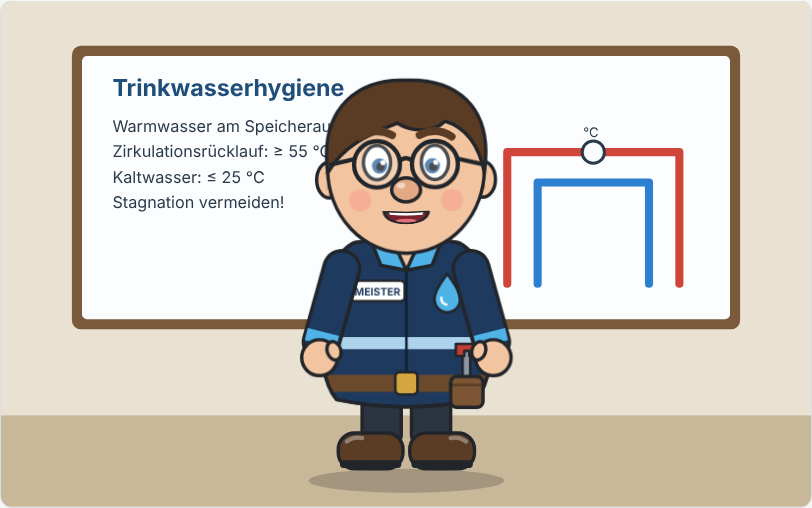
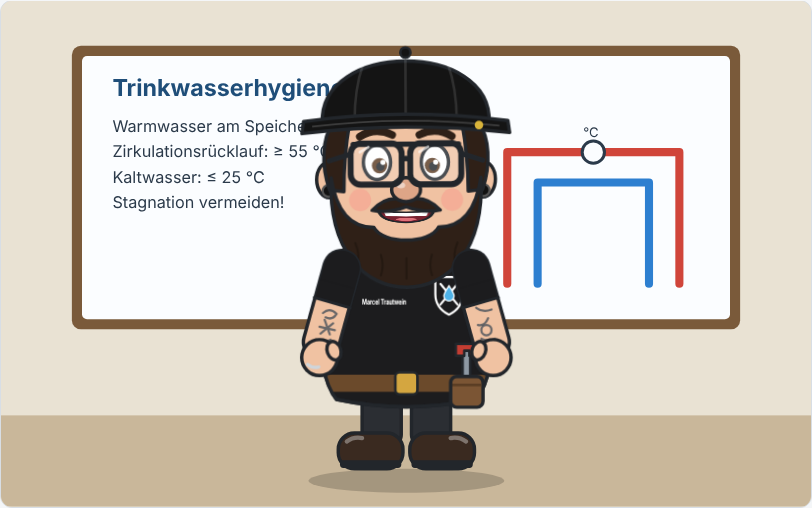
Figur an Marcel angepasst: Cap, Brille, Vollbart, T-Shirt, Tattoos
- Snapback-Cap mit geradem Schirm, kräftige Brille mit Doppelsteg
- dunkler Vollbart mit Schnurrbart, Ohr-Tunnel, breiteres Lachen
- Outfit T-Shirt mit Namensaufdruck und Wappen, kurze Ärmel mit Tattoos
- Arbeitsjacke und Schutzhelm bleiben als Alternative wählbar
- Rot als Akzentfarbe, Vorschaubilder neu erzeugt

Claude-Session: https://claude.ai/code/session_01LH1Di16cBXyLvn2UrpciNj

Changed region(s): [[0.3695, 0.0886, 0.6466, 0.7382], [0.4002, 0.8563, 0.585, 0.9154], [0.4002, 0.7677, 0.5542, 0.7972]]

diff --git a/figur/lehrer-figur.html b/figur/lehrer-figur.html
@@ -42,7 +42,7 @@
 </head>
 <body>
 <header>
-  <h1>Wasser-Meister – Lehrer-Figur für Erklärvideos</h1>
+  <h1>Wasser-Meister Marcel – Lehrer-Figur für Erklärvideos</h1>
   <p>Trinkwasserhygiene &amp; Installation · Pose wählen, Aussehen anpassen, als PNG / SVG / Video exportieren.</p>
 </header>
 
@@ -72,8 +72,8 @@
     </svg>
 
     <!-- ================= DIE FIGUR ================= -->
-    <svg id="figur" xmlns="http://www.w3.org/2000/svg" viewBox="-80 0 560 570" class="mode-idle talking"
-         style="--skin:#f2c4a0; --skin-shade:#e3a985; --hair:#5a3b24; --eye:#3b6ea5; --jacket:#1f3a5f; --accent:#4fb3e8; --pants:#2c3440; --boots:#5b3d26; --line:#22262b; --belly:1;">
+    <svg id="figur" xmlns="http://www.w3.org/2000/svg" viewBox="-80 0 560 570" class="mode-idle talking outfit-tee"
+         style="--skin:#f0c2a2; --skin-shade:#dda587; --hair:#2f2017; --eye:#5a3a22; --jacket:#1c1c1e; --accent:#d7141a; --cap:#141414; --pants:#2b2e33; --boots:#3a2a20; --line:#22262b; --belly:1;">
       <style>
         #figur .ol { stroke: var(--line); stroke-width: 4; stroke-linejoin: round; stroke-linecap: round; }
         #figur .skin { fill: var(--skin); }
@@ -107,6 +107,11 @@
         #figur #eyes   { transform-origin: 200px 172px; }
         #figur #brows  { transform-origin: 200px 140px; }
         #figur #torsoScale { transform-origin: 200px 360px; transform: scaleX(var(--belly)); }
+        #figur.outfit-tee .jacket-only, #figur.outfit-jacket .tee-only { display: none; }
+        #figur .arm-skin { stroke: var(--skin); stroke-width: 38; stroke-linecap: round; }
+        #figur .sleeve { stroke: var(--jacket); stroke-width: 42; }
+        #figur .tattoo { fill: none; stroke: #3d4a55; stroke-opacity: .75; stroke-width: 2.6; stroke-linecap: round; stroke-linejoin: round; }
+        #figur .cap { fill: var(--cap); }
         #figur #pointer { display: none; }
         #figur.pointer-on #pointer, #figur.mode-point #pointer { display: inline; }
 
@@ -172,7 +177,7 @@
         @keyframes jump {
           0%, 100% { transform: translateY(0) scale(1.06, .92); }
           15% { transform: translateY(0) scale(.95, 1.06); }
-          50% { transform: translateY(-70px) scale(1, 1); }
+          50% { transform: translateY(-50px) scale(1, 1); }
           85% { transform: translateY(0) scale(1.05, .94); }
         }
         @keyframes shadowJump { 0%, 100% { transform: scale(1); opacity: 1; } 50% { transform: scale(.6); opacity: .5; } }
@@ -209,23 +214,39 @@
             <path class="jacket ol" d="M138,262 C92,285 88,410 118,445 Q200,462 282,445 C312,410 308,285 262,262 Q200,250 138,262 Z"/>
             <g clip-path="url(#torsoClip)">
               <path d="M270,270 C300,320 300,420 270,452 L320,452 L320,270 Z" fill="#000" fill-opacity=".14"/>
-              <rect x="80" y="372" width="240" height="14" fill="#dfe7ee"/>
-              <rect x="80" y="372" width="240" height="14" class="accent" fill-opacity=".35"/>
+              <g class="jacket-only">
+                <rect x="80" y="372" width="240" height="14" fill="#dfe7ee"/>
+                <rect x="80" y="372" width="240" height="14" class="accent" fill-opacity=".35"/>
+              </g>
               <rect x="80" y="416" width="240" height="20" fill="#6b4a2b"/>
             </g>
             <path d="M138,262 C92,285 88,410 118,445 Q200,462 282,445 C312,410 308,285 262,262 Q200,250 138,262 Z" fill="none" class="ol"/>
-            <line x1="200" y1="294" x2="200" y2="414" stroke="#0f1f33" stroke-width="3"/>
+            <line class="jacket-only" x1="200" y1="294" x2="200" y2="414" stroke="#0f1f33" stroke-width="3"/>
             <rect x="187" y="413" width="26" height="26" rx="5" fill="#d4a640" class="ol" style="stroke-width:3"/>
+<g class="jacket-only">
             <!-- Kragen -->
             <path class="skin ol" d="M176,258 L200,294 L224,258 Z"/>
             <path class="accent ol" d="M158,258 L182,255 L200,294 L170,288 Z"/>
             <path class="accent ol" d="M242,258 L218,255 L200,294 L230,288 Z"/>
             <!-- Namensschild -->
             <rect x="134" y="306" width="64" height="24" rx="5" class="white ol" style="stroke-width:3"/>
-            <text id="nameText" x="166" y="323" text-anchor="middle" font-family="system-ui, Arial, sans-serif" font-size="12.5" font-weight="700" fill="#1f3a5f" textLength="54" lengthAdjust="spacingAndGlyphs">MEISTER</text>
+            <text id="nameText" x="166" y="323" text-anchor="middle" font-family="system-ui, Arial, sans-serif" font-size="12.5" font-weight="700" fill="#1f3a5f" textLength="54" lengthAdjust="spacingAndGlyphs">MARCEL</text>
             <!-- Wassertropfen-Abzeichen -->
-            <path class="accent ol" style="stroke-width:3" d="M248,298 C258,312 263,320 263,328 A15,15 0 0 1 233,328 C233,320 238,312 248,298 Z"/>
+            <path class="ol" fill="#4fb3e8" style="stroke-width:3" d="M248,298 C258,312 263,320 263,328 A15,15 0 0 1 233,328 C233,320 238,312 248,298 Z"/>
             <path d="M241,326 A7,7 0 0 0 247,334" fill="none" stroke="#fff" stroke-width="3" stroke-linecap="round"/>
+</g>
+            <!-- T-Shirt: Rundhals, Namensaufdruck, Wappen -->
+            <g class="tee-only">
+              <path class="skin" d="M166,256 Q200,292 234,256 Z"/>
+              <path d="M164,257 Q200,296 236,257" fill="none" stroke="#3a3a3d" stroke-width="7" stroke-linecap="round"/>
+              <path d="M164,257 Q200,296 236,257" fill="none" class="ol" style="stroke-width:3"/>
+              <text id="namePrint" x="174" y="334" text-anchor="middle" font-family="system-ui, Arial, sans-serif" font-size="9" font-weight="700" fill="#ffffff" textLength="52" lengthAdjust="spacingAndGlyphs">Marcel Trautwein</text>
+              <g fill="none" stroke="#ffffff" stroke-width="2.5" stroke-linecap="round" stroke-linejoin="round">
+                <path d="M234,302 H266 V322 Q266,338 250,346 Q234,338 234,322 Z"/>
+                <path d="M240,334 L260,310 M240,310 L260,334"/>
+              </g>
+              <path d="M250,312 C254,318 256,321 256,324 A6,6 0 0 1 244,324 C244,321 246,318 250,312 Z" fill="#4fb3e8" stroke="#fff" stroke-width="1.5"/>
+            </g>
             <!-- Werkzeugtasche mit Rohrzange -->
             <g id="pouch">
               <rect x="266" y="388" width="9" height="40" rx="3" fill="#8e99a4" class="ol" style="stroke-width:3"/>
@@ -241,6 +262,10 @@
             <ellipse class="skin ol" cx="290" cy="188" rx="15" ry="21"/>
             <path d="M106,180 Q114,188 108,198" fill="none" stroke="var(--skin-shade)" stroke-width="4" stroke-linecap="round"/>
             <path d="M294,180 Q286,188 292,198" fill="none" stroke="var(--skin-shade)" stroke-width="4" stroke-linecap="round"/>
+            <g id="tunnels">
+              <circle cx="109" cy="201" r="7" fill="#111" stroke="#555" stroke-width="2.5"/>
+              <circle cx="291" cy="201" r="7" fill="#111" stroke="#555" stroke-width="2.5"/>
+            </g>
             <ellipse class="skin ol" cx="200" cy="176" rx="92" ry="98"/>
 
             <!-- Haare: kurz -->
@@ -252,11 +277,17 @@
               <path class="hair ol" d="M110,192 C102,158 112,132 134,120 C128,142 126,166 126,194 Z"/>
               <path class="hair ol" d="M290,192 C298,158 288,132 266,120 C272,142 274,166 274,194 Z"/>
             </g>
+            <!-- Haare: kurze Seiten (passt unter die Cap) -->
+            <g id="hairSides" style="display:none">
+              <path class="hair ol" d="M110,200 C100,170 102,140 114,122 L134,122 C129,150 127,176 127,202 Z"/>
+              <path class="hair ol" d="M290,200 C300,170 298,140 286,122 L266,122 C271,150 273,176 273,202 Z"/>
+            </g>
             <!-- Haare: Locken (per Skript gefüllt) -->
             <g id="hairCurly" style="display:none"></g>
 
             <!-- Bart -->
-            <path id="beardFull" class="hair ol" style="display:none" d="M112,196 C114,262 160,288 200,288 C240,288 286,262 288,196 C278,232 258,246 236,244 C226,262 174,262 164,244 C142,246 122,232 112,196 Z"/>
+            <path id="beardFull" class="hair ol" style="display:none" d="M112,186 C108,272 152,314 200,314 C248,314 292,272 288,186 C282,226 264,244 238,244 C228,264 172,264 162,244 C136,244 118,226 112,186 Z"/>
+            <g id="beardStrands" style="display:none" fill="none" stroke="#000" stroke-opacity=".22" stroke-width="2.5" stroke-linecap="round"><path d="M140,262 q6,14 2,26 M170,276 q4,12 0,24 M200,280 v24 M230,276 q-4,12 0,24 M260,262 q-6,14 -2,26"/></g>
             <path id="beardStubble" class="hair" style="display:none" fill-opacity=".28" d="M112,196 C114,262 160,282 200,282 C240,282 286,262 288,196 C278,232 258,246 236,244 C226,262 174,262 164,244 C142,246 122,232 112,196 Z"/>
             <path id="beardShort" class="hair ol" style="display:none" d="M164,248 C170,272 186,284 200,284 C214,284 230,272 236,248 C224,262 176,262 164,248 Z"/>
 
@@ -266,11 +297,11 @@
 
             <!-- Mund -->
             <g id="mouth">
-              <path class="ol" fill="#7a2230" d="M174,222 Q200,226 226,222 Q224,252 200,254 Q176,252 174,222 Z"/>
-              <path fill="#fff" d="M180,224 Q200,228 220,224 L219,231 Q200,234 181,231 Z"/>
+              <path class="ol" fill="#7a2230" d="M168,220 Q200,227 232,220 Q229,254 200,256 Q171,254 168,220 Z"/>
+              <path fill="#fff" d="M174,223 Q200,229 226,223 L224,235 Q200,239 176,235 Z"/>
               <ellipse cx="200" cy="246" rx="12" ry="5" fill="#e0707a"/>
             </g>
-            <path id="mustache" class="hair ol" style="display:none" d="M166,224 Q182,206 200,216 Q218,206 234,224 Q218,230 200,222 Q182,230 166,224 Z"/>
+            <path id="mustache" class="hair ol" style="display:none" d="M160,224 Q180,204 200,214 Q220,204 240,224 Q220,228 200,220 Q180,228 160,224 Z"/>
 
             <!-- Nase -->
             <ellipse class="skin-shade ol" cx="200" cy="200" rx="17" ry="14"/>
@@ -308,32 +339,78 @@
               <path d="M138,160 L112,168 M262,160 L288,168" stroke="var(--line)" stroke-width="5" stroke-linecap="round"/>
             </g>
 
+            <g id="glassesBold" style="display:none">
+              <rect class="glasses" style="stroke-width:7" x="135" y="146" width="60" height="48" rx="12"/>
+              <rect class="glasses" style="stroke-width:7" x="205" y="146" width="60" height="48" rx="12"/>
+              <path d="M138,147 H262" stroke="var(--line)" stroke-width="6" stroke-linecap="round"/>
+              <path d="M195,166 Q200,161 205,166" fill="none" stroke="var(--line)" stroke-width="6"/>
+              <path d="M135,158 L110,166 M265,158 L290,166" stroke="var(--line)" stroke-width="6" stroke-linecap="round"/>
+              <path d="M146,156 l10,-6 M216,156 l10,-6" stroke="#fff" stroke-opacity=".6" stroke-width="3" stroke-linecap="round"/>
+            </g>
+
+            <!-- Snapback-Cap (gerader Schirm) -->
+            <g id="cap" style="display:none">
+              <path class="cap ol" d="M102,122 C98,26 302,26 298,122 Z"/>
+              <path d="M200,40 V120 M150,54 Q140,82 140,120 M250,54 Q260,82 260,120" fill="none" stroke="#fff" stroke-opacity=".12" stroke-width="3"/>
+              <circle class="cap ol" cx="200" cy="40" r="6" style="stroke-width:3"/>
+              <path class="cap ol" d="M80,120 Q200,104 320,120 L322,134 Q200,120 78,134 Z"/>
+              <path d="M90,126 Q200,113 310,126" fill="none" stroke="#fff" stroke-opacity=".18" stroke-width="2"/>
+              <circle cx="286" cy="125" r="5" fill="#d9b43a"/>
+            </g>
+
             <!-- Schutzhelm -->
             <g id="helmet" style="display:none">
               <path class="white ol" d="M98,152 C98,40 302,40 302,152 Z"/>
               <path d="M200,70 V150" stroke="#e3e8ec" stroke-width="16"/>
               <path class="white ol" d="M82,154 Q200,134 318,154 Q322,166 306,166 Q200,150 94,166 Q78,166 82,154 Z"/>
-              <path class="accent ol" style="stroke-width:3" d="M200,90 C210,104 215,112 215,120 A15,15 0 0 1 185,120 C185,112 190,104 200,90 Z"/>
+              <path class="ol" fill="#4fb3e8" style="stroke-width:3" d="M200,90 C210,104 215,112 215,120 A15,15 0 0 1 185,120 C185,112 190,104 200,90 Z"/>
             </g>
           </g>
           <!-- Linker Arm (vom Betrachter aus) -->
           <g id="armL">
             <line class="arm-ol" x1="124" y1="292" x2="100" y2="378"/>
-            <line class="arm-fill" x1="124" y1="292" x2="100" y2="378"/>
-            <line class="cuff" x1="102.5" y1="366" x2="99" y2="380"/>
+            <g class="jacket-only">
+              <line class="arm-fill" x1="124" y1="292" x2="100" y2="378"/>
+              <line class="cuff" x1="102.5" y1="366" x2="99" y2="380"/>
+            </g>
+            <g class="tee-only">
+              <line class="arm-skin" x1="124" y1="292" x2="100" y2="378"/>
+              <g class="tattoos"><g class="tattoo">
+                <path d="M102,344 q8,-7 16,1 q-5,8 -13,4"/>
+                <path d="M98,360 l18,4 M104,352 l6,17 M99,368 l15,-12"/>
+                <path d="M94,375 q9,5 17,0"/>
+              </g></g>
+              <line class="sleeve" stroke-linecap="round" x1="124" y1="292" x2="119" y2="310"/>
+              <line class="sleeve" stroke-linecap="butt" x1="119" y1="310" x2="113" y2="332"/>
+              <line x1="92" y1="326" x2="134" y2="338" stroke="var(--line)" stroke-width="3.5" stroke-linecap="round"/>
+            </g>
             <circle class="skin ol" cx="98" cy="396" r="21"/>
             <ellipse class="skin ol" cx="115" cy="388" rx="8" ry="11" transform="rotate(-20 115 388)"/>
+            <path d="M84,404 Q90,409 97,407" fill="none" stroke="#cfd5da" stroke-width="4" stroke-linecap="round"/>
           </g>
 
           <!-- Rechter Arm (vom Betrachter aus) mit Rohr-Zeigestab -->
           <g id="armR">
             <line class="arm-ol" x1="276" y1="292" x2="300" y2="378"/>
-            <line class="arm-fill" x1="276" y1="292" x2="300" y2="378"/>
-            <line class="cuff" x1="297.5" y1="366" x2="301" y2="380"/>
+            <g class="jacket-only">
+              <line class="arm-fill" x1="276" y1="292" x2="300" y2="378"/>
+              <line class="cuff" x1="297.5" y1="366" x2="301" y2="380"/>
+            </g>
+            <g class="tee-only">
+              <line class="arm-skin" x1="276" y1="292" x2="300" y2="378"/>
+              <g class="tattoos"><g class="tattoo" transform="translate(400,0) scale(-1,1)">
+                <path d="M100,340 q10,4 18,-2 M104,350 q4,10 12,8"/>
+                <circle cx="106" cy="364" r="6"/>
+                <path d="M96,374 q8,4 16,0"/>
+              </g></g>
+              <line class="sleeve" stroke-linecap="round" x1="276" y1="292" x2="281" y2="310"/>
+              <line class="sleeve" stroke-linecap="butt" x1="281" y1="310" x2="287" y2="332"/>
+              <line x1="308" y1="326" x2="266" y2="338" stroke="var(--line)" stroke-width="3.5" stroke-linecap="round"/>
+            </g>
             <g id="pointer">
               <line class="pipe-ol" x1="302" y1="396" x2="328" y2="486"/>
               <line class="pipe" x1="302" y1="396" x2="328" y2="486"/>
-              <path class="accent ol" style="stroke-width:3" d="M330,476 C338,488 342,494 342,500 A12,12 0 0 1 318,500 C318,494 322,488 330,476 Z" transform="rotate(-16 330 492)"/>
+              <path class="ol" fill="#4fb3e8" style="stroke-width:3" d="M330,476 C338,488 342,494 342,500 A12,12 0 0 1 318,500 C318,494 322,488 330,476 Z" transform="rotate(-16 330 492)"/>
             </g>
             <circle class="skin ol" cx="302" cy="396" r="21"/>
             <ellipse class="skin ol" cx="285" cy="388" rx="8" ry="11" transform="rotate(20 285 388)"/>
@@ -364,11 +441,12 @@
 
   <fieldset>
     <legend>Aussehen (an dich anpassen)</legend>
-    <label class="row">Haarfarbe <input type="color" data-var="--hair" value="#5a3b24"></label>
-    <label class="row">Hautton <input type="color" data-var="--skin" value="#f2c4a0"></label>
-    <label class="row">Augenfarbe <input type="color" data-var="--eye" value="#3b6ea5"></label>
+    <label class="row">Haarfarbe <input type="color" data-var="--hair" value="#2f2017"></label>
+    <label class="row">Hautton <input type="color" data-var="--skin" value="#f0c2a2"></label>
+    <label class="row">Augenfarbe <input type="color" data-var="--eye" value="#5a3a22"></label>
     <label class="row">Frisur
       <select id="hairStyle">
+        <option value="hairSides" selected>Kurze Seiten</option>
         <option value="hairShort">Kurz</option>
         <option value="hairSide">Seitenscheitel</option>
         <option value="hairCurly">Locken</option>
@@ -381,28 +459,44 @@
         <option value="none">Kein Bart</option>
         <option value="stubble">Dreitagebart</option>
         <option value="short">Kinnbart</option>
-        <option value="full">Vollbart</option>
+        <option value="full" selected>Vollbart</option>
       </select>
     </label>
-    <label class="row">Schnurrbart <input type="checkbox" id="mustacheOn"></label>
+    <label class="row">Schnurrbart <input type="checkbox" id="mustacheOn" checked></label>
     <label class="row">Brille
       <select id="glasses">
+        <option value="glassesBold" selected>Kräftig mit Doppelsteg</option>
         <option value="glassesRound">Rund</option>
         <option value="glassesSquare">Eckig</option>
         <option value="none">Keine</option>
       </select>
     </label>
-    <label class="row">Schutzhelm <input type="checkbox" id="helmetOn"></label>
+    <label class="row">Kopfbedeckung
+      <select id="headwear">
+        <option value="cap" selected>Snapback-Cap</option>
+        <option value="helmet">Schutzhelm</option>
+        <option value="none">Keine</option>
+      </select>
+    </label>
+    <label class="row">Ohr-Tunnel <input type="checkbox" id="tunnelsOn" checked></label>
+    <label class="row">Tattoos <input type="checkbox" id="tattoosOn" checked></label>
     <label class="row">Statur <input type="range" id="belly" min="0.85" max="1.15" step="0.01" value="1"></label>
-    <label class="row">Namensschild <input type="text" id="name" value="MEISTER" maxlength="10"></label>
+    <label class="row">Namensschild <input type="text" id="name" value="Marcel Trautwein" maxlength="24"></label>
   </fieldset>
 
   <fieldset>
     <legend>Kleidung</legend>
-    <label class="row">Jacke <input type="color" data-var="--jacket" value="#1f3a5f"></label>
-    <label class="row">Akzent / Kragen <input type="color" data-var="--accent" value="#4fb3e8"></label>
-    <label class="row">Hose <input type="color" data-var="--pants" value="#2c3440"></label>
-    <label class="row">Schuhe <input type="color" data-var="--boots" value="#5b3d26"></label>
+    <label class="row">Outfit
+      <select id="outfit">
+        <option value="tee" selected>T-Shirt</option>
+        <option value="jacket">Arbeitsjacke</option>
+      </select>
+    </label>
+    <label class="row">Shirt / Jacke <input type="color" data-var="--jacket" value="#1c1c1e"></label>
+    <label class="row">Akzent (Kragen, Streifen) <input type="color" data-var="--accent" value="#d7141a"></label>
+    <label class="row">Cap <input type="color" data-var="--cap" value="#141414"></label>
+    <label class="row">Hose <input type="color" data-var="--pants" value="#2b2e33"></label>
+    <label class="row">Schuhe <input type="color" data-var="--boots" value="#3a2a20"></label>
   </fieldset>
 
   <fieldset>
@@ -479,18 +573,30 @@
   }
 
   // Frisur, Bart, Brille, Helm
-  const hairIds = ['hairShort', 'hairSide', 'hairCurly', 'hairThin'];
+  const hairIds = ['hairSides', 'hairShort', 'hairSide', 'hairCurly', 'hairThin'];
   $('hairStyle').addEventListener('change', e => hairIds.forEach(id => show(id, id === e.target.value)));
   $('beard').addEventListener('change', e => {
     show('beardFull', e.target.value === 'full');
+    show('beardStrands', e.target.value === 'full');
     show('beardStubble', e.target.value === 'stubble');
     show('beardShort', e.target.value === 'short');
   });
   $('mustacheOn').addEventListener('change', e => show('mustache', e.target.checked));
-  $('glasses').addEventListener('change', e => ['glassesRound', 'glassesSquare'].forEach(id => show(id, id === e.target.value)));
-  $('helmetOn').addEventListener('change', e => show('helmet', e.target.checked));
+  $('glasses').addEventListener('change', e => ['glassesBold', 'glassesRound', 'glassesSquare'].forEach(id => show(id, id === e.target.value)));
+  $('headwear').addEventListener('change', e => { show('cap', e.target.value === 'cap'); show('helmet', e.target.value === 'helmet'); });
+  $('tunnelsOn').addEventListener('change', e => show('tunnels', e.target.checked));
+  $('tattoosOn').addEventListener('change', e => fig.querySelectorAll('.tattoos').forEach(t => t.style.display = e.target.checked ? '' : 'none'));
+  $('outfit').addEventListener('change', e => { fig.classList.remove('outfit-tee', 'outfit-jacket'); fig.classList.add('outfit-' + e.target.value); });
   $('belly').addEventListener('input', e => fig.style.setProperty('--belly', e.target.value));
-  $('name').addEventListener('input', e => { $('nameText').textContent = e.target.value.toUpperCase(); });
+  $('name').addEventListener('input', e => {
+    const v = e.target.value.trim();
+    $('namePrint').textContent = v;
+    $('namePrint').setAttribute('textLength', Math.min(52, Math.max(16, v.length * 3.6)));
+    $('nameText').textContent = (v.split(/\s+/)[0] || '').toUpperCase();
+  });
+  // Startzustand aus den Bedienelementen übernehmen
+  ['hairStyle', 'beard', 'mustacheOn', 'glasses', 'headwear', 'tunnelsOn', 'tattoosOn', 'outfit'].forEach(id => $(id).dispatchEvent(new Event('change')));
+  $('name').dispatchEvent(new Event('input'));
 
   // Hintergrund
   const stage = $('stage');

diff --git a/README.md b/README.md
@@ -2,8 +2,11 @@
 
 Lehrer-Figur für Erklärvideos zu **Trinkwasserhygiene und Installation**.
 Gedrungene, comichafte Proportionen (großer Kopf, kurze Beine, ca. 3,5 Kopflängen hoch),
-Arbeitsjacke mit Reflexstreifen, Wassertropfen-Abzeichen, Werkzeugtasche mit Rohrzange
-und ein Kupferrohr als Zeigestab.
+Werkzeugtasche mit Rohrzange und ein Kupferrohr als Zeigestab.
+
+Standard-Look nach Marcel: schwarze Snapback-Cap, kräftige Brille mit Doppelsteg,
+dunkler Vollbart, Ohr-Tunnel, schwarzes T-Shirt mit Namensaufdruck und Wappen,
+tätowierte Unterarme, Rot als Akzentfarbe. Alternativ: Arbeitsjacke und Schutzhelm.
 
 ## Benutzung
 
@@ -12,7 +15,7 @@ und ein Kupferrohr als Zeigestab.
 - **Posen:** Stehen, Erklären, Zeigen (mit Rohr-Zeigestab), Winken, Achtung!, Gehen, Jubeln
 - **Sprechen:** Mundbewegung lässt sich mit jeder Pose kombinieren, Blinzeln läuft immer
 - **Aussehen anpassen:** Haarfarbe, Hautton, Augenfarbe, Frisur, Bart, Schnurrbart, Brille,
-  Schutzhelm, Statur, Namensschild, Kleidungsfarben
+  Cap/Schutzhelm, Ohr-Tunnel, Tattoos, Outfit (T-Shirt/Arbeitsjacke), Statur, Namensschild, Kleidungsfarben
 - **Export:**
   - PNG mit transparentem Hintergrund (Standbild der aktuellen Pose, 2240 × 2280 px)
   - SVG (animiert, für Web / Weiterbearbeitung in Inkscape/Illustrator)
